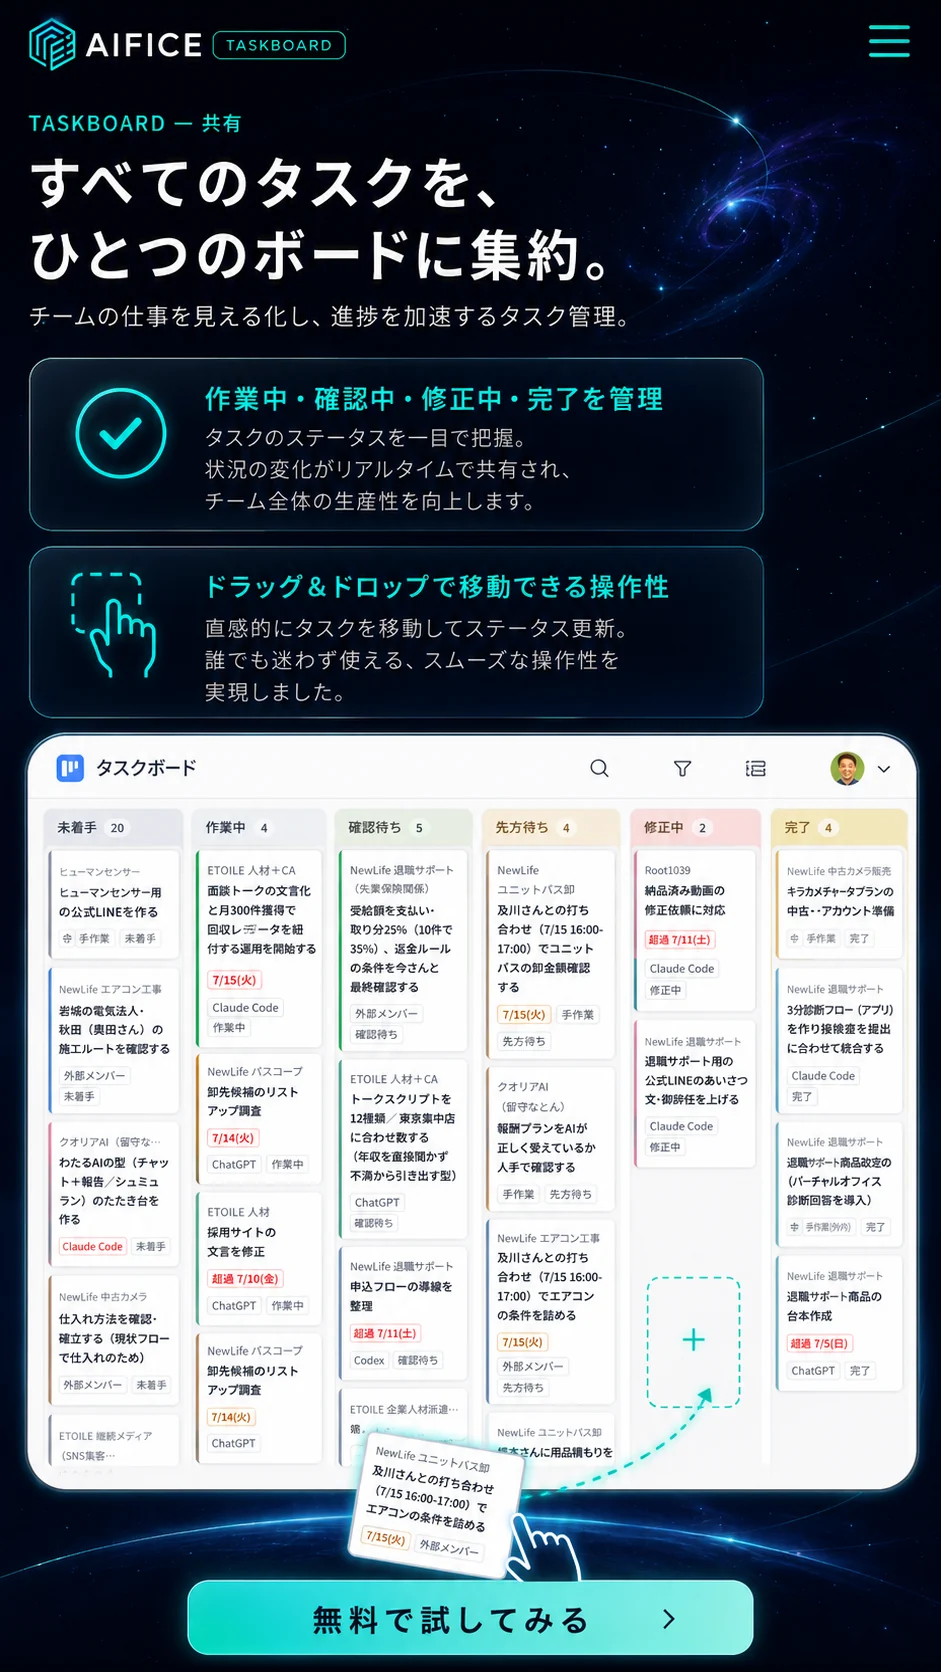
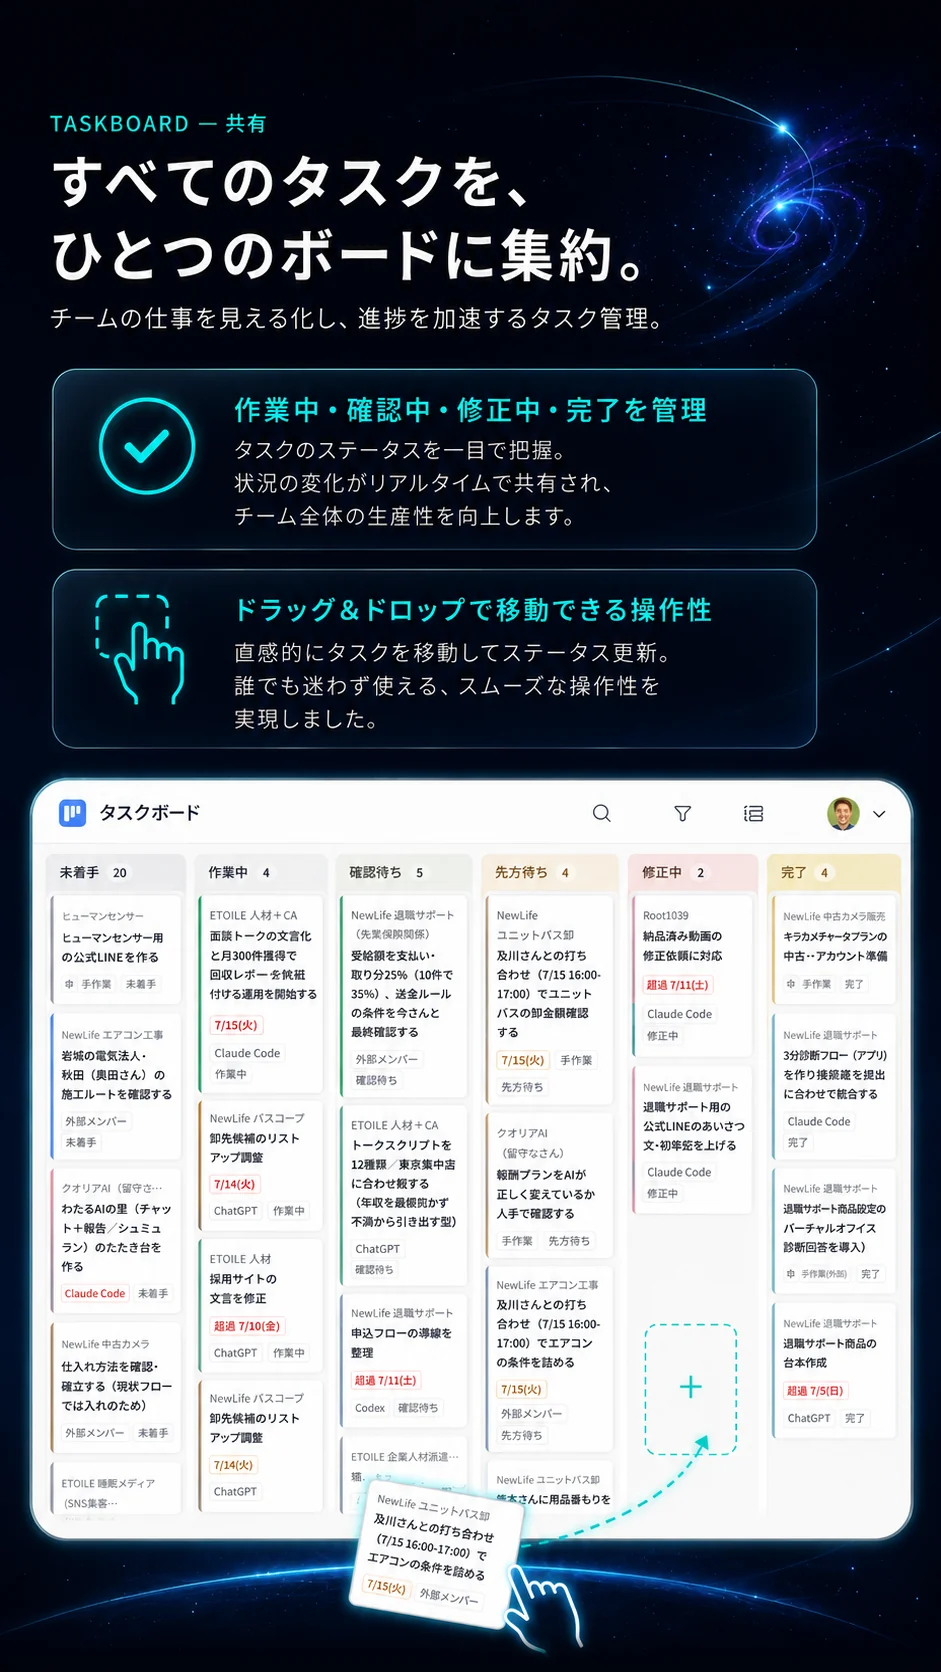
feat(aifice): 画像3をM3-1/PC3-1に差し替え・CTAボタン削除
- タスクボードのビジュアルを新版(ロゴ/ナビ/CTAなし)に更新
- モバイル下部の「無料で試してみる」CTAとPCナビCTAを削除
- 上下端を共通ダークへフェードして継ぎ目を維持

diff --git a/aifice.html b/aifice.html
@@ -91,7 +91,6 @@
     <figure class="fig"><img src="assets/aifice/pc/pc2_members.webp" alt="AIFICEで働くAI社員：書記AI・記者AI・編集者AI・秘書AI"></figure>
     <figure class="fig">
       <img src="assets/aifice/pc/pc3_board.webp" alt="すべてのタスクを、ひとつのボードに集約。AIFICE TASKBOARD">
-      <a class="cta sm" href="mailto:ogaignbr@gmail.com?subject=AIFICE%20無料相談" aria-label="無料で試してみる" style="left:88.3%;top:2.2%;width:10.2%;height:5.6%"></a>
     </figure>
     <figure class="fig"><img src="assets/aifice/pc/pc4_feats.webp" alt="AIFICEのここが凄い：収集・蓄積／タスク整理／AIと一緒に進化"></figure>
     <figure class="fig">
@@ -119,7 +118,6 @@
     <figure class="fig"><img src="assets/aifice/mobile/m2_members.webp" alt="AIFICEで働くAI社員：書記AI・記者AI・編集者AI・秘書AI"></figure>
     <figure class="fig">
       <img src="assets/aifice/mobile/m3_board.webp" alt="すべてのタスクを、ひとつのボードに集約。AIFICE TASKBOARD">
-      <a class="cta" href="mailto:ogaignbr@gmail.com?subject=AIFICE%20無料相談" aria-label="無料で試してみる" style="left:17.5%;top:93.5%;width:65.0%;height:6.0%"></a>
     </figure>
     <figure class="fig"><img src="assets/aifice/mobile/m4_feats.webp" alt="AIFICEのここが凄い：収集・蓄積／タスク整理／AIと一緒に進化"></figure>
     <figure class="fig">
